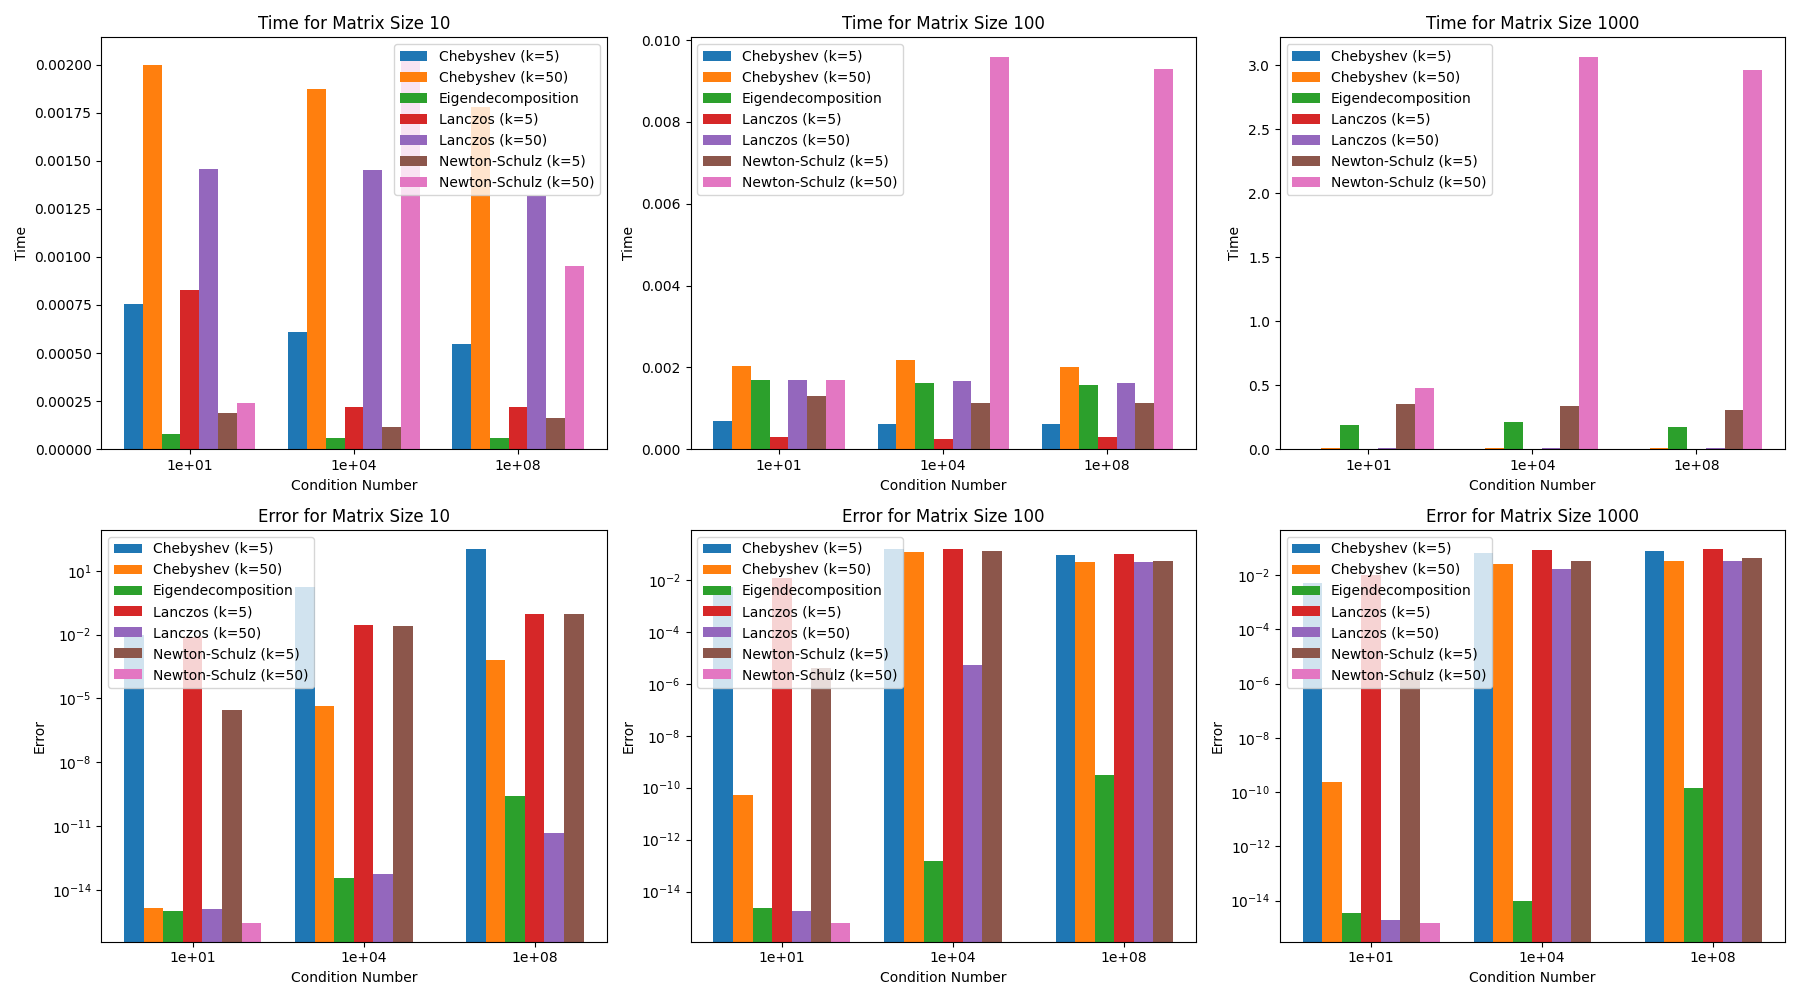
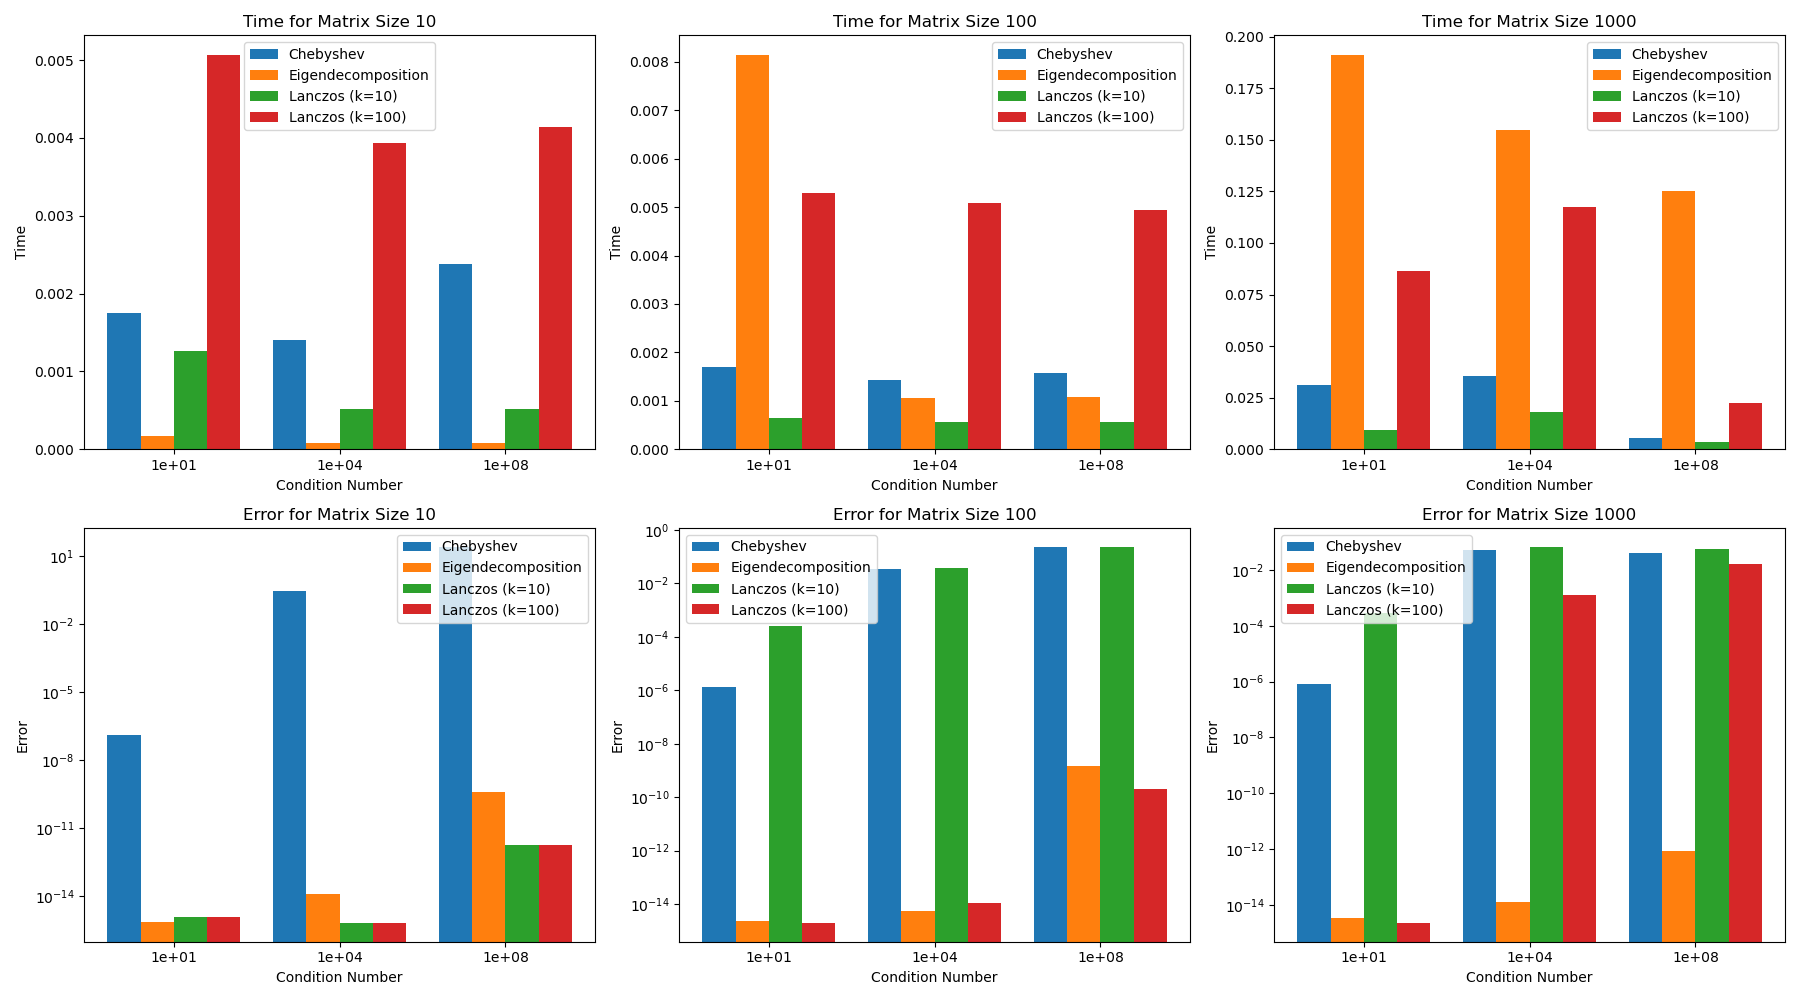
Add files via upload

diff --git a/run.py b/run.py
@@ -1,5 +1,5 @@
 from sqrtsolvers.benchmarking.benchmark import run_benchmark, print_results, plot_results, Solver
-from sqrtsolvers.solvers import eigh, lanczos, newton_schulz, chebyshev
+from sqrtsolvers.solvers import eigh, lanczos, chebyshev
 
 def main():
     """
@@ -7,12 +7,9 @@ def main():
     """
     solvers = [
         Solver("Eigendecomposition", lambda A, b: eigh.solve_eigh(A, b), warm_start=False),
-        Solver("Lanczos (k=5)", lambda A, b: lanczos.solve_lanczos(A, b, k=5), warm_start=False),
-        Solver("Lanczos (k=50)", lambda A, b: lanczos.solve_lanczos(A, b, k=50), warm_start=False),
-        Solver("Newton-Schulz (k=5)", lambda A, b: newton_schulz.solve_ns(A, b, max_iter=5), warm_start=False),
-        Solver("Newton-Schulz (k=50)", lambda A, b: newton_schulz.solve_ns(A, b, max_iter=50), warm_start=False),
-        Solver("Chebyshev (k=5)", lambda A, b: chebyshev.solve_chebyshev(A, b, k=5), warm_start=False),
-        Solver("Chebyshev (k=50)", lambda A, b: chebyshev.solve_chebyshev(A, b, k=50), warm_start=False),
+        Solver("Lanczos (k=10)", lambda A, b: lanczos.solve_lanczos(A, b, k=10), warm_start=False),
+        Solver("Lanczos (k=100)", lambda A, b: lanczos.solve_lanczos(A, b, k=100), warm_start=False),
+        Solver("Chebyshev", lambda A, b: chebyshev.solve_chebyshev(A, b), warm_start=False),
     ]
 
 

diff --git a/README.md b/README.md
@@ -4,16 +4,13 @@ This repository contains the implementation and benchmarking of solvers for the 
 
 ## Solvers
 
-Currently four solvers are implemented in this repository:
+Currently the following solvers are implemented in this repository:
 
 1.  **Eigendecomposition**: This method computes the eigendecomposition of the matrix A to find its square root and then solves the system directly. It is accurate and robust but can be computationally expensive for large matrices.
 
 2.  **Lanczos**: This is an iterative method for finding eigenvalues and eigenvectors of a symmetric matrix. In this repository, the Lanczos algorithm is used to approximate A^(-1/2)b.
 
-3.  **Newton-Schulz**: This is an iterative solver based on the Newton-Schulz iteration for finding the inverse square root of the matrix A. The iteration is given by:
-    X_{k+1} = 0.5 * X_k * (3I - A * X_k^2)
-
-4.  **Chebyshev**: This method approximates the function f(z) = z^(-1/2) with a Chebyshev polynomial, and then computes the solution as a matrix-polynomial-vector product. It can be more stable than Newton-Schulz for ill-conditioned matrices.
+3.  **Chebyshev**: This method approximates the function f(z) = z^(-1/2) with a Chebyshev polynomial, and then computes the solution as a matrix-polynomial-vector product. It can be more stable than Newton-Schulz for ill-conditioned matrices.
 
 ## Benchmarking
 
@@ -34,5 +31,4 @@ The benchmark results are summarized in the plot below:
 
 *   **Eigendecomposition**: This method remains the most accurate and is very fast for the matrix sizes tested.
 *   **Lanczos**: The Lanczos method provides a good approximation for well-conditioned matrices, but its accuracy degrades significantly as the condition number increases.
-*   **Newton-Schulz**: This solver outperforms Lanczos slightly on very small matrices. Its performance degrades with increasing condition number, and it can be unstable for ill-conditioned matrices.
 *   **Chebyshev**: The Chebyshev solver is a competitive alternative to the other iterative methods. It is significantly faster than Eigendecomposition and Newton-Schulz for larger matrices. Its accuracy is comparable to Lanczos, and it is more stable than Newton-Schulz for ill-conditioned matrices.
